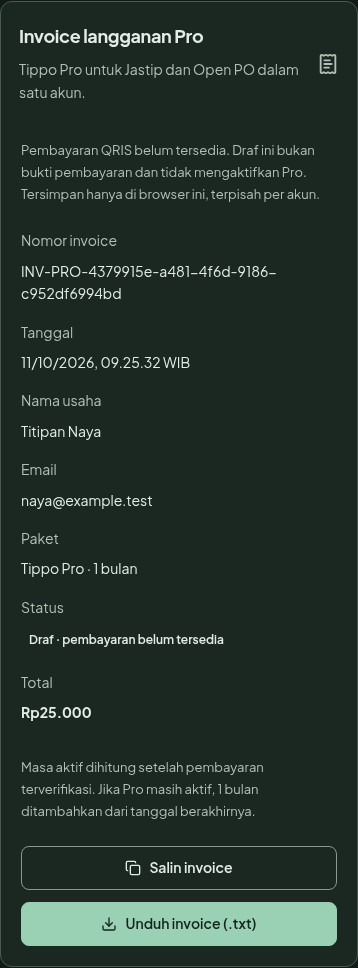
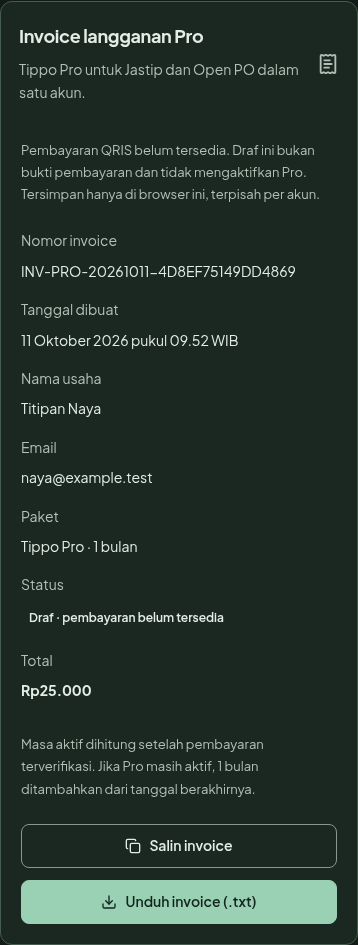
Use dated unique Pro invoice codes and readable creation dates

diff --git a/src/lib/pro-invoice.ts b/src/lib/pro-invoice.ts
@@ -11,17 +11,29 @@ export interface ProInvoice {
   status: "draft";
 }
 
+function invoiceCode(now: Date, nonce: string): string {
+  const parts = new Intl.DateTimeFormat("en", { year: "numeric", month: "2-digit", day: "2-digit", timeZone: "Asia/Jakarta" }).formatToParts(now);
+  const date = ["year", "month", "day"].map(type => parts.find(part => part.type === type)!.value).join("");
+  return `INV-PRO-${date}-${nonce.replace(/-/g, "").slice(0, 16).toUpperCase()}`;
+}
+
+export function formatProInvoiceDate(createdAt: string): string {
+  return `${new Intl.DateTimeFormat("id-ID", { dateStyle: "long", timeStyle: "short", timeZone: "Asia/Jakarta" }).format(new Date(createdAt))} WIB`;
+}
+
 export function createProInvoice(account: { id: string; name: string; email: string }, now = new Date(), id = crypto.randomUUID()): ProInvoice {
-  return { id: `INV-PRO-${id}`, ownerId: account.id, createdAt: now.toISOString(), businessName: account.name, email: account.email, amount: 25000, currency: "IDR", months: 1, status: "draft" };
+  return { id: invoiceCode(now, id), ownerId: account.id, createdAt: now.toISOString(), businessName: account.name, email: account.email, amount: 25000, currency: "IDR", months: 1, status: "draft" };
 }
 
 export function parseProInvoice(value: unknown, ownerId: string): ProInvoice | null {
   if (!value || typeof value !== "object") return null;
   const row = value as Partial<ProInvoice>;
-  return row.ownerId === ownerId && typeof row.id === "string" && /^INV-PRO-[a-zA-Z0-9-]+$/.test(row.id) && typeof row.createdAt === "string" && Number.isFinite(Date.parse(row.createdAt)) && typeof row.businessName === "string" && typeof row.email === "string" && row.amount === 25000 && row.currency === "IDR" && row.months === 1 && row.status === "draft" ? row as ProInvoice : null;
+  if (!(row.ownerId === ownerId && typeof row.id === "string" && /^INV-PRO-(?:\d{8}-[A-F0-9]{16}|[a-f0-9]{8}-[a-f0-9]{4}-[a-f0-9]{4}-[a-f0-9]{4}-[a-f0-9]{12})$/i.test(row.id) && typeof row.createdAt === "string" && Number.isFinite(Date.parse(row.createdAt)) && typeof row.businessName === "string" && typeof row.email === "string" && row.amount === 25000 && row.currency === "IDR" && row.months === 1 && row.status === "draft")) return null;
+  const invoice = row as ProInvoice;
+  return /^INV-PRO-\d{8}-[A-F0-9]{16}$/i.test(invoice.id) ? invoice : { ...invoice, id: invoiceCode(new Date(invoice.createdAt), invoice.id.slice(8)) };
 }
 
 export function proInvoiceText(invoice: ProInvoice): string {
-  const date = new Intl.DateTimeFormat("id-ID", { dateStyle: "long", timeStyle: "short", timeZone: "Asia/Jakarta" }).format(new Date(invoice.createdAt));
-  return ["TIPPO · DRAF INVOICE LANGGANAN", invoice.id, `Tanggal: ${date} WIB`, `Nama usaha: ${invoice.businessName}`, `Email: ${invoice.email}`, "", "Tippo Pro · 1 bulan", "Subtotal: Rp25.000", "Total: Rp25.000", "Status: Draf · pembayaran belum tersedia", "", "Belum ada pembayaran yang diterima. Ini bukan bukti pembayaran.", "QRIS belum tersedia. Pro aktif setelah pembayaran terverifikasi.", "Masa aktif ditambahkan dari tanggal berakhir jika Pro masih aktif, atau dari tanggal aktivasi jika belum aktif."].join("\n");
+  const date = formatProInvoiceDate(invoice.createdAt);
+  return ["TIPPO · DRAF INVOICE LANGGANAN", invoice.id, `Tanggal dibuat: ${date}`, `Nama usaha: ${invoice.businessName}`, `Email: ${invoice.email}`, "", "Tippo Pro · 1 bulan", "Subtotal: Rp25.000", "Total: Rp25.000", "Status: Draf · pembayaran belum tersedia", "", "Belum ada pembayaran yang diterima. Ini bukan bukti pembayaran.", "QRIS belum tersedia. Pro aktif setelah pembayaran terverifikasi.", "Masa aktif ditambahkan dari tanggal berakhir jika Pro masih aktif, atau dari tanggal aktivasi jika belum aktif."].join("\n");
 }

diff --git a/src/components/pro-invoice-panel.tsx b/src/components/pro-invoice-panel.tsx
@@ -3,7 +3,7 @@
 import { useState } from "react";
 import { Copy, Download, ReceiptText } from "lucide-react";
 import { Button } from "@/components/ui/button";
-import { createProInvoice, parseProInvoice, proInvoiceText, type ProInvoice } from "@/lib/pro-invoice";
+import { createProInvoice, formatProInvoiceDate, parseProInvoice, proInvoiceText, type ProInvoice } from "@/lib/pro-invoice";
 
 export function ProInvoicePanel({ account, onNotify }: { account: { id: string; name: string; email: string }; onNotify?: (message: string) => void }) {
   const key = `tippo.pro-invoice.draft.v1.${account.id}`;
@@ -43,7 +43,7 @@ export function ProInvoicePanel({ account, onNotify }: { account: { id: string; 
     <div className="pro-invoice-body">
       <p className="field-hint">Pembayaran QRIS belum tersedia. Draf ini bukan bukti pembayaran dan tidak mengaktifkan Pro. Tersimpan hanya di browser ini, terpisah per akun.</p>
       {invoice ? <>
-        <dl className="pro-invoice-details"><dt>Nomor invoice</dt><dd>{invoice.id}</dd><dt>Tanggal</dt><dd>{new Date(invoice.createdAt).toLocaleString("id-ID", { timeZone: "Asia/Jakarta" })} WIB</dd><dt>Nama usaha</dt><dd>{invoice.businessName}</dd><dt>Email</dt><dd>{invoice.email}</dd><dt>Paket</dt><dd>Tippo Pro · 1 bulan</dd><dt>Status</dt><dd><span className="status-tag">Draf · pembayaran belum tersedia</span></dd><dt>Total</dt><dd><strong>Rp25.000</strong></dd></dl>
+        <dl className="pro-invoice-details"><dt>Nomor invoice</dt><dd>{invoice.id}</dd><dt>Tanggal dibuat</dt><dd>{formatProInvoiceDate(invoice.createdAt)}</dd><dt>Nama usaha</dt><dd>{invoice.businessName}</dd><dt>Email</dt><dd>{invoice.email}</dd><dt>Paket</dt><dd>Tippo Pro · 1 bulan</dd><dt>Status</dt><dd><span className="status-tag">Draf · pembayaran belum tersedia</span></dd><dt>Total</dt><dd><strong>Rp25.000</strong></dd></dl>
         <p className="field-hint">Masa aktif dihitung setelah pembayaran terverifikasi. Jika Pro masih aktif, 1 bulan ditambahkan dari tanggal berakhirnya.</p>
         <div className="pro-invoice-actions"><Button className="btn btn-secondary" disabled={copying} onClick={copy}><Copy size={16} />{copying ? "Menyalin…" : "Salin invoice"}</Button><Button className="btn btn-primary" onClick={download}><Download size={16} />Unduh invoice (.txt)</Button></div>
       </> : <div className="pro-invoice-empty"><p>Belum ada invoice langganan. Buat draf untuk melihat rincian paket dan tagihan sebelum pembayaran tersedia.</p><Button className="btn btn-primary" onClick={create}><ReceiptText size={16} />Buat draf invoice Pro</Button></div>}

diff --git a/tests/website.spec.ts b/tests/website.spec.ts
@@ -535,13 +535,14 @@ for (const [width,pro] of [[1440,false],[390,false],[1440,true],[390,true]] as c
   const panel=page.getByRole("region",{name:"Invoice langganan Pro",exact:true});
   await panel.getByRole("button",{name:"Buat draf invoice Pro",exact:true}).click();
   await expect(panel).toContainText("Titipan Naya");await expect(panel).toContainText("naya@example.test");await expect(panel).toContainText("Rp25.000");
-  const id=await panel.locator("dd").first().innerText();expect(id).toMatch(/^INV-PRO-/);
+  const id=await panel.locator("dd").first().innerText();expect(id).toMatch(/^INV-PRO-\d{8}-[A-F0-9]{16}$/);
+  const date=await panel.locator("dd").nth(1).innerText();expect(date).toMatch(/\d{1,2} [A-Za-z]+ \d{4}.*WIB/);
   await panel.getByRole("button",{name:"Salin invoice",exact:true}).click();
   await expect.poll(()=>page.evaluate(()=>navigator.clipboard.readText())).toContain("Ini bukan bukti pembayaran.");
   const downloadPromise=page.waitForEvent("download");await panel.getByRole("button",{name:"Unduh invoice (.txt)",exact:true}).click();
   const download=await downloadPromise;expect(download.suggestedFilename()).toBe(`${id}.txt`);
   const body=await readFile((await download.path())!,"utf8");expect(body).toContain(id);expect(body).toContain("Total: Rp25.000");
-  await page.reload();await openSection(page,"Paket & langganan");await expect(panel.locator("dd").first()).toHaveText(id);
+  await page.reload();await openSection(page,"Paket & langganan");await expect(panel.locator("dd").first()).toHaveText(id);await expect(panel.locator("dd").nth(1)).toHaveText(date);
   await expect(panel.getByRole("button",{name:"Buat draf invoice Pro",exact:true})).toHaveCount(0);
   await expect(page.getByRole("region",{name:"Paket aktif",exact:true})).toContainText(pro?"Paketmu: Pro":"Paketmu: Gratis");
   expect(requests).toHaveLength(0);expect(await page.evaluate(()=>document.documentElement.scrollWidth)).toBe(width);

diff --git a/tests/pro-invoice.test.ts b/tests/pro-invoice.test.ts
@@ -3,7 +3,12 @@ import assert from "node:assert/strict";
 import { createProInvoice, parseProInvoice, proInvoiceText } from "../src/lib/pro-invoice.ts";
 
 test("Pro invoice remains a one-month draft and rejects paid or foreign-account documents", () => {
-  const invoice = createProInvoice({ id: "owner-a", name: "Titipan Naya", email: "naya@example.test" }, new Date("2026-10-10T18:00:00Z"), "test-id");
+  const invoice = createProInvoice({ id: "owner-a", name: "Titipan Naya", email: "naya@example.test" }, new Date("2026-10-10T18:00:00Z"), "a1b2c3d4-e5f6-4789-8123-aabbccddeeff");
+  assert.equal(invoice.id, "INV-PRO-20261011-A1B2C3D4E5F64789");
+  assert.equal(parseProInvoice({...invoice,id:"INV-PRO-a1b2c3d4-e5f6-4789-8123-aabbccddeeff"},"owner-a")?.id,invoice.id);
+  assert.equal(parseProInvoice({...invoice,id:"INV-PRO-12345678-e5f6-4789-8123-aabbccddeeff"},"owner-a")?.id,"INV-PRO-20261011-12345678E5F64789");
+  const account={id:"owner-a",name:"Titipan Naya",email:"naya@example.test"};
+  assert.notEqual(createProInvoice(account).id,createProInvoice(account).id);
   assert.equal(invoice.amount, 25000); assert.equal(invoice.months, 1); assert.equal(invoice.status, "draft");
   assert.deepEqual(parseProInvoice(invoice, "owner-a"), invoice);
   assert.equal(parseProInvoice(invoice, "owner-b"), null);

diff --git a/docs/DESIGN-VALIDATION.md b/docs/DESIGN-VALIDATION.md
@@ -733,6 +733,8 @@ Tambahan Pro: pemilih bulan tetap menampilkan tahun terpilih ketika mode lain be
 
 ## Contoh testimoni dan draf invoice Pro
 
+Revisi nomor/tanggal: draf memakai INV-PRO-YYYYMMDD-16 karakter dari UUID acak dengan tanggal Asia/Jakarta. Label Tanggal dibuat menggunakan nama bulan/jam WIB pada UI dan ekspor. Konversi nomor UUID lama deterministik dan mempertahankan timestamp asli. Unit domain memeriksa pergantian tanggal Jakarta, format, keunikan contoh, migrasi legacy serta penolakan dokumen salah owner/status/nominal. Build/lint dan empat workflow invoice Gratis/Pro desktop/ponsel lulus; nomor dan tanggal tetap setelah reload, hasil salin/unduh diperiksa. Agen utama meninjau screenshot ponsel gelap: nomor/tanggal membungkus dalam kolom tanpa overflow. Tidak mengubah QRIS, aktivasi Pro, skema database atau memverifikasi deployment.
+
 Build, lint, satu tes domain invoice dan 11 workflow browser lulus. Tes browser mencakup beranda 320/1440 terang/gelap, login akun, invoice Gratis/Pro pada 1440 terang dan 390 gelap, persistence setelah reload, salin/unduh dengan pemeriksaan isi file, clipboard ditolak, dan storage ditolak. Draf tidak melakukan RPC save atau mengubah entitlement. Tes domain menolak status paid, nominal berubah dan owner berbeda, serta memeriksa tanggal Jakarta. Helper navigasi tes sempat gagal karena Paket berada di luar nav utama dan sidebar mobile belum siap; selector/wait diperbaiki, kemudian run 11 tes selesai lulus. Agen utama meninjau screenshot testimoni serta invoice desktop terang dan ponsel gelap. API/webhook QRIS tidak dijalankan, invoice belum tersimpan di server, deployment Vercel belum diverifikasi.
 
 Delivery Gate berikut hanya menilai revisi ini, bukan mengulang audit seluruh aplikasi.

diff --git a/docs/PRO-PAYMENT-INTEGRATION.md b/docs/PRO-PAYMENT-INTEGRATION.md
@@ -1,5 +1,7 @@
 # Invoice langganan Pro
 
+Format draf terbaru: INV-PRO-YYYYMMDD-16KARAKTER, tanggal berdasarkan Asia/Jakarta dan suffix dari UUID acak. Tanggal dibuat ditampilkan lengkap dengan jam WIB, memakai timestamp pembuatan yang tersimpan, bukan waktu halaman dibuka. Draf lama dengan nomor UUID diubah secara deterministik ke format ini saat dibaca, tanpa mengubah tanggal atau status. Ketika integrasi server tersedia, keunikan nomor tetap harus ditegakkan oleh constraint server.
+
 Tahap saat ini: draf invoice lokal pada Paket & langganan. Satu draf terakhir disimpan per ID akun di browser; bukan rekaman pembayaran, tidak tersinkron antarperangkat, dan tidak termasuk cadangan data pesanan. Nomor memakai UUID, waktu ditampilkan dalam Asia/Jakarta, paket 1 bulan dengan total Rp25.000. Dokumen dapat disalin atau diunduh sebagai teks. Pembuatan/ekspor tidak menulis workspace Supabase maupun mengubah entitlement Pro. Status draf tetap sampai integrasi pembayaran selesai.
 
 API InterActive QRIS dan webhook belum tersedia. Jangan menggunakan draf browser sebagai invoice resmi, sumber nominal pembayaran, atau bukti pembayaran. Tidak ada tombol konfirmasi pembayaran manual, QR palsu, maupun aktivasi Pro dari klien.
